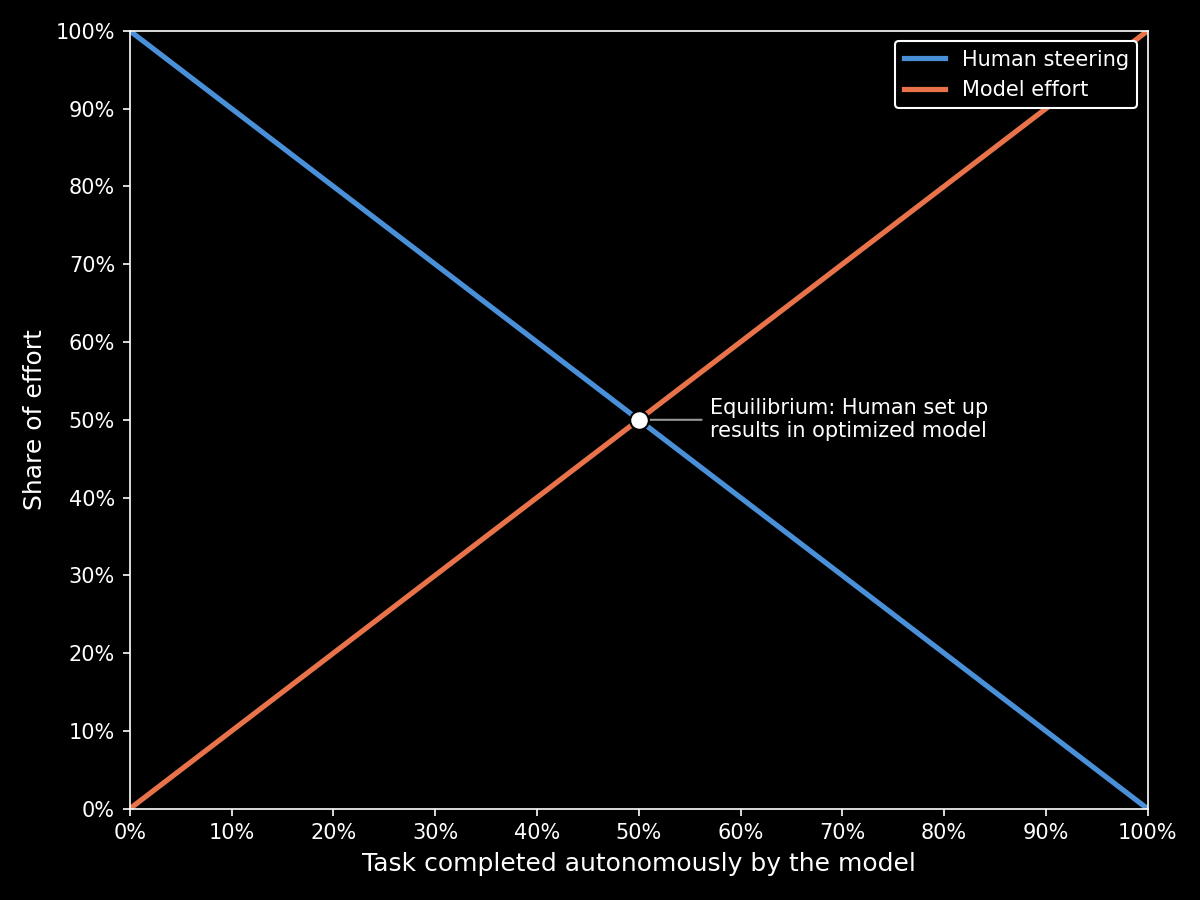
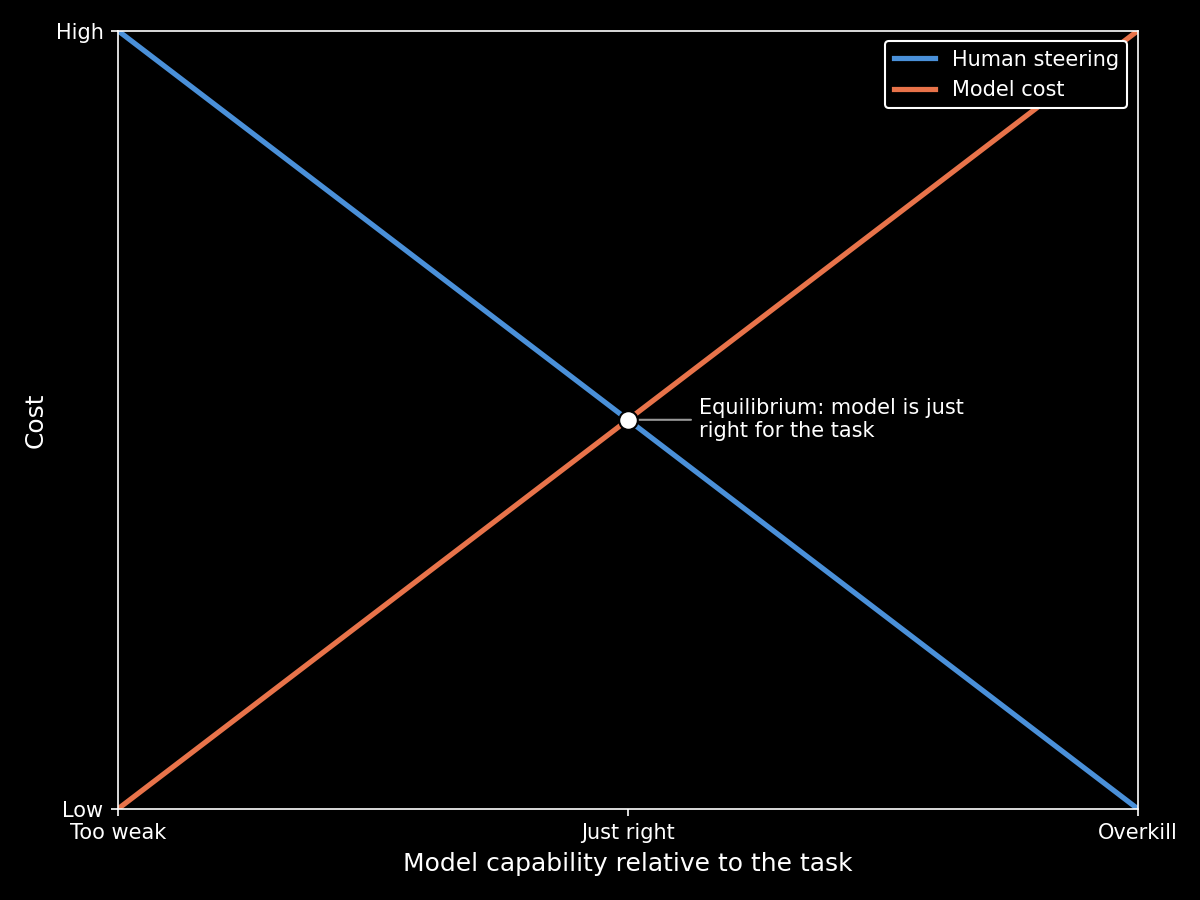
chore: change the graphs and text to fit a bit more nice with the DWL analogy

diff --git a/blog/capabilities/index.html b/blog/capabilities/index.html
@@ -3,7 +3,7 @@
 <head>
     <meta charset="utf-8"/>
     <meta name="viewport" content="width=device-width, initial-scale=1"/>
-    <meta name="source-hash" content="37c1bfde610c80a9"/>
+    <meta name="source-hash" content="6649e93e8abc79ab"/>
     <title>Capabilities</title>
     <script src="/dist/theme.js"></script>
     <script>try { localStorage.setItem('locale', 'en'); } catch (e) {}</script>
@@ -111,12 +111,12 @@
 <p>I&#39;ve observed that there is an inverse relationship between the skill needed [by a human] to accomplish a task and how good a model is. </p>
 <p>Example: if you&#39;re working with a frontier model, it&#39;s generally sufficient to ask for what you want. &quot;Fix this bug&quot;, &quot;Add X feature&quot;, etc. If you&#39;re working with small models (with 30B parameters or lower), they need considerably more hand holding. Prompts need to be longer and specific because otherwise the models get lost in thought and churn their context windows before doing anything useful.</p>
 <p>In other words: when a model is bad/limited at a task, humans supplement its deficiency with their own skills and steering. This is true for any task that frontier models aren&#39;t already good at or when using handicapped models. It&#39;s part of why Open Weight models aren&#39;t as big of a threat as they may seem in cybersecurity. You still need knowledgeable humans (and a ton of compute) to get the most out of them, at least for now.  </p>
-<p>We can map these concepts onto the first graph if we swap the Demand curve with Human steering and the Supply curve with Model effort. The x-axis represents how much of a task a model completes autonomously: at the very left, the human does everything. At the very right, the model can do it end-to-end. The y-axis represents how much effort each side puts in. The height of the human line is the human&#39;s effort, just as the height of the model line is the model&#39;s effort. Both axes are within the 0-100% range, with the x-axis representing performance and the y-axis the share of each party.  </p>
+<p>We can map these concepts onto the first graph if we swap the Demand curve with Human steering and the Supply curve with Model cost. The x-axis represents how capable a model is relative to the task: at the very left, the model is too weak for it. At the very right, it&#39;s overkill. The y-axis represents what you pay. The height of the human line is how much steering the model needs from you, just as the height of the model line is what the model costs. The more capable the model, the less steering it needs and the more it costs.  </p>
 <p>Let&#39;s reintroduce the first graph with these changes.</p>
-<p><img src="/blog/assets/figures/en/human-model-curves.png" alt="Human steering and model effort plotted as a share of effort against how much of a task the model completes autonomously." title="Human Steering and Model Effort"></p>
+<p><img src="/blog/assets/figures/en/human-model-curves.png" alt="Human steering and model cost plotted against how capable the model is relative to the task." title="Human Steering and Model Cost"></p>
 <p>You might think we always want to be on the rightmost side of it. I think that constitutes dead-weight loss for both economic and practical reasons. </p>
 <p>One simple example is using frontier models for trivial changes that a smaller model could&#39;ve made. E.g., changing the copy in a page or running trivial git commands (when was the last time you prompted &#39;yes, push it&#39;?). </p>
-<p><img src="/blog/assets/figures/en/human-model-overreliance.png" alt="Deadweight loss on the right side of the human steering and model effort graph, where a frontier model is used for a trivial task." title="Deadweight Loss From Over-Relying on the Model"></p>
+<p><img src="/blog/assets/figures/en/human-model-overreliance.png" alt="Deadweight loss on the right side of the human steering and model cost graph, where a frontier model is used for a trivial task." title="Deadweight Loss From an Overpowered Model"></p>
 <p>The economic argument is obvious: you&#39;re using frontier tokens for trivial tasks. Ideally, you&#39;d want to save the cost.</p>
 <p>The practical argument is that if token spend wasn&#39;t a concern, it would probably be faster if you used a smaller/faster model. Like if Cursor&#39;s Composer did it rather than have Astra think for a minute straight. </p>
 <p>And even if your very smart model was ultra fast, that is expensive right now, so the economical argument still holds: others <em>could</em> do the same thing just as fast for cheaper, if we had the systems to transfer context efficiently (sort of pass the ball but for models).</p>
@@ -132,14 +132,14 @@
 <p>I expect that while intelligence is subsidized, companies and individuals will use frontier models because it feels like the safe choice and it requires less steering. Budget-conscious organizations will make their own evals and perhaps even RL small models on them (like <a href="https://x.com/RampLabs/status/2052447438795833506">Ramp</a> did). </p>
 <p>But to diffuse AI into the wider economy at its current price, much work needs to be done on simple to use optimizers that small and medium sized organizations can use to save their token spend, both for use by individuals within an organization and for specific tasks. </p>
 <p>Paraphrased: Jev might be very cheap but your average store clerk or non-profit worker isn&#39;t gonna get an API key and make an eval to see if it beats Astra at their classification task. Hence the need for diffusion companies.  </p>
-<p>In the graph, the equilibria makes sense if you think about the 50% human effort as setting up the infrastructure and evals to get the model with the best speed, price, and intelligence for the task (both pre-selecting it or changing it at runtime). Whereas using a frontier model avoids you the work but costs a lot.</p>
-<p><img src="/blog/assets/figures/en/human-model-equilibrium.png" alt="Equilibrium between human steering and model effort, at 50% of the task completed autonomously by the model." title="Equilibrium Between Human Steering and Model Effort"></p>
+<p>In the graph, the equilibria makes sense if you think about it as the model with the best speed, price, and intelligence for the task. Getting there takes human effort: setting up the infrastructure and evals to find that model (both pre-selecting it or changing it at runtime). Whereas using a frontier model avoids you the work but costs a lot.</p>
+<p><img src="/blog/assets/figures/en/human-model-equilibrium.png" alt="Equilibrium between human steering and model cost, where the model is just right for the task." title="Equilibrium Between Human Steering and Model Cost"></p>
 <p>I expect this to change with harnesses that auto-route and simpler infrastructure for evaluating and training task-specific models. It is also nice that this is a defined engineering effort. If we get it right once, everyone benefits.</p>
 <p>What about DWL on the left side of the graph?</p>
 <p>I was recently experimenting with the Qwen family of models, running them locally on my computer with Ollama. It was disappointing. They know a lot and can pull off impressive tricks for a small model, but as soon as you throw a real task at them, they blow their context budgets overthinking unnecessary details.</p>
-<p><img src="/blog/assets/figures/en/human-model-underreliance.png" alt="Deadweight loss on the left side of the human steering and model effort graph, where a small model needs heavy human guidance." title="Deadweight Loss From Under-Relying on the Model"></p>
+<p><img src="/blog/assets/figures/en/human-model-underreliance.png" alt="Deadweight loss on the left side of the human steering and model cost graph, where a small model needs heavy human guidance." title="Deadweight Loss From an Underpowered Model"></p>
 <p>I could only get them to do what I wanted by pointing out the exact lines of code they had to look at. I even had to change some code by hand because even though I&#39;d tell them five times in a row to execute the change, it just thought, and thought, until its context overflowed. </p>
-<p>Another dimension the graph doesn&#39;t capture is time<sup><a id="footnote-ref-5" href="#footnote-5" data-footnote-ref aria-describedby="footnote-label">5</a></sup>. It took me considerably longer to finish my project with Qwen because it needed so much handholding. I knew frontier models would&#39;ve been done in way less time. It also doesn&#39;t capture mental load: it is so much easier to just prompt your way through. You don&#39;t really need to think. </p>
+<p>Another dimension the graph doesn&#39;t capture is time<sup><a id="footnote-ref-5" href="#footnote-5" data-footnote-ref aria-describedby="footnote-label">5</a></sup>. It took me considerably longer to finish my project with Qwen because it needed so much handholding. I knew frontier models would&#39;ve been done in way less time. It also doesn&#39;t capture the qualitative difference in mental load: it is so much easier to just prompt your way through. You don&#39;t really need to think. </p>
 <p>Though, in my case, I chose to work my way through it because I wanted to experiment. In the real world, DWL on the left is visible on tasks that the models aren&#39;t good at <em>yet</em>. The odd finance benchmarks, ML research benchmarks, and computer use tasks. You still need people reviewing and steering the model&#39;s outputs. </p>
 <p>In my opinion, if accuracy can be quantified and the task is economically valuable, they will be conquered eventually, likeliest first at the frontier, shifting to the right. This is true of tasks where labs and startups have an interest to introduce automation. It&#39;s part of the diffusion process. </p>
 <p>Together, both parts of the graph paint a cohesive story: the frontier will lay the groundwork at the toughest challenges in an expensive, inefficient way, while diffusion makes them economically viable and fast.</p>

diff --git a/blog/assets/code/supply-demand-curves.py b/blog/assets/code/supply-demand-curves.py
@@ -1,6 +1,5 @@
 import matplotlib.pyplot as plt
 import numpy as np
-from matplotlib.ticker import PercentFormatter
 from pathlib import Path
 
 MIN_QUANTITY = 1
@@ -19,17 +18,25 @@ EQUILIBRIUM_QUANTITY = 5
 DWL_SHADE = 0.6
 DWL_ALPHA = 0.7
 DWL_FONT_SIZE = 14
+DWL_LABEL = 'DWL'
+DWL_LEFT_COLORMAP = plt.cm.Blues
+DWL_RIGHT_COLORMAP = plt.cm.Oranges
+DWL_LABEL_GAP = 6
+PROMPT_FONT_SIZE = 10
+PROMPT_LINE_HEIGHT = 1.2
 OUTPUT_DIR = Path(__file__).resolve().parent.parent / "figures" / "en"
 
 PERCENT_MAX = 100
-PERCENT_TICK_STEP = 10
 HUMAN_MODEL_EQUILIBRIUM = 50
-HUMAN_MODEL_EQUILIBRIUM_TEXT = 'Equilibrium: Human set up\nresults in optimized model'
+HUMAN_MODEL_EQUILIBRIUM_TEXT = 'Equilibrium: model is just\nright for the task'
+HUMAN_MODEL_X_TICKS = (0, 50, 100)
+HUMAN_MODEL_X_TICK_LABELS = ('Too weak', 'Just right', 'Overkill')
+HUMAN_MODEL_Y_TICKS = (0, 100)
+HUMAN_MODEL_Y_TICK_LABELS = ('Low', 'High')
 HUMAN_MODEL_EQUILIBRIUM_TEXT_X = 57
 OVERRELIANCE_AUTONOMY = 100
 OVERRELIANCE_TEXT = 'yes, push it'
 UNDERRELIANCE_AUTONOMY = 0
-UNDERRELIANCE_FONT_SIZE = 9
 UNDERRELIANCE_TEXT = (
     'Edit lines 100-112.\n'
     'Change the function\n'
@@ -67,21 +74,23 @@ ECONOMICS_SPEC = {
     'ylabel': 'Price',
     'first_label': 'Demand curve',
     'second_label': 'Supply curve',
-    'as_percent': False,
+    'x_tick_labels': None,
+    'y_tick_labels': None,
 }
 
 HUMAN_MODEL_SPEC = {
     'x_range': (0, PERCENT_MAX),
     'y_range': (0, PERCENT_MAX),
-    'x_ticks': range(0, PERCENT_MAX + 1, PERCENT_TICK_STEP),
-    'y_ticks': range(0, PERCENT_MAX + 1, PERCENT_TICK_STEP),
+    'x_ticks': HUMAN_MODEL_X_TICKS,
+    'y_ticks': HUMAN_MODEL_Y_TICKS,
     'first_curve': human_steering_share,
     'second_curve': model_skill_share,
-    'xlabel': 'Task completed autonomously by the model',
-    'ylabel': 'Share of effort',
+    'xlabel': 'Model capability relative to the task',
+    'ylabel': 'Cost',
     'first_label': 'Human steering',
-    'second_label': 'Model effort',
-    'as_percent': True,
+    'second_label': 'Model cost',
+    'x_tick_labels': HUMAN_MODEL_X_TICK_LABELS,
+    'y_tick_labels': HUMAN_MODEL_Y_TICK_LABELS,
 }
 
 # (quantity, label text position, horizontal alignment)
@@ -127,11 +136,8 @@ def draw_curves(ax, bg, fg, spec=ECONOMICS_SPEC):
     ax.set_ylim(*spec['y_range'])
     ax.set_xlabel(spec['xlabel'], fontsize=12, color=fg)
     ax.set_ylabel(spec['ylabel'], fontsize=12, color=fg)
-    ax.set_xticks(spec['x_ticks'])
-    ax.set_yticks(spec['y_ticks'])
-    if spec['as_percent']:
-        ax.xaxis.set_major_formatter(PercentFormatter(xmax=PERCENT_MAX))
-        ax.yaxis.set_major_formatter(PercentFormatter(xmax=PERCENT_MAX))
+    ax.set_xticks(spec['x_ticks'], spec['x_tick_labels'])
+    ax.set_yticks(spec['y_ticks'], spec['y_tick_labels'])
     ax.tick_params(colors=fg)
     for spine in ax.spines.values():
         spine.set_color(fg)
@@ -161,14 +167,37 @@ def draw_example_points(ax, bg, fg):
         draw_labeled_point(ax, bg, fg, point_xy, point_label(quantity), example['text_xy'], example['align'])
 
 
-def draw_shaded_triangle(ax, bg, fg, corners, text, font_size=DWL_FONT_SIZE):
-    triangle = plt.Polygon(corners, closed=True, facecolor=plt.cm.Blues(DWL_SHADE),
-                           edgecolor=bg, linewidth=1, alpha=DWL_ALPHA, zorder=1)
-    ax.add_patch(triangle)
+def dwl_colormap(traded_x, equilibrium_x):
+    return DWL_LEFT_COLORMAP if traded_x < equilibrium_x else DWL_RIGHT_COLORMAP
+
+
+def triangle_center(corners):
     center_x = sum(corner[0] for corner in corners) / len(corners)
     center_y = sum(corner[1] for corner in corners) / len(corners)
-    ax.text(center_x, center_y, text, ha='center', va='center',
-            fontsize=font_size, color=fg, zorder=4)
+    return center_x, center_y
+
+
+def draw_shaded_triangle(ax, bg, corners, colormap):
+    triangle = plt.Polygon(corners, closed=True, facecolor=colormap(DWL_SHADE),
+                           edgecolor=bg, linewidth=1, alpha=DWL_ALPHA, zorder=1)
+    ax.add_patch(triangle)
+
+
+def draw_dwl_label(ax, fg, corners):
+    ax.text(*triangle_center(corners), DWL_LABEL, ha='center', va='center',
+            fontsize=DWL_FONT_SIZE, color=fg, zorder=4)
+
+
+def draw_dwl_label_with_prompt(ax, fg, corners, prompt):
+    center = triangle_center(corners)
+    prompt_line_count = prompt.count('\n') + 1
+    half_prompt_height = prompt_line_count * PROMPT_FONT_SIZE * PROMPT_LINE_HEIGHT / 2
+    ax.text(*center, prompt, ha='center', va='center',
+            fontsize=PROMPT_FONT_SIZE, color=fg, zorder=4)
+    # Offset in points so the DWL label sits just above the prompt regardless of its line count
+    ax.annotate(DWL_LABEL, xy=center, xytext=(0, half_prompt_height + DWL_LABEL_GAP),
+                textcoords='offset points', ha='center', va='bottom',
+                fontsize=DWL_FONT_SIZE, color=fg, zorder=4)
 
 
 def draw_human_model_underreliance_triangle(ax, bg, fg):
@@ -176,7 +205,8 @@ def draw_human_model_underreliance_triangle(ax, bg, fg):
     human_corner = (UNDERRELIANCE_AUTONOMY, human_steering_share(UNDERRELIANCE_AUTONOMY))
     model_corner = (UNDERRELIANCE_AUTONOMY, model_skill_share(UNDERRELIANCE_AUTONOMY))
     corners = [equilibrium_corner, human_corner, model_corner]
-    draw_shaded_triangle(ax, bg, fg, corners, UNDERRELIANCE_TEXT, UNDERRELIANCE_FONT_SIZE)
+    draw_shaded_triangle(ax, bg, corners, dwl_colormap(UNDERRELIANCE_AUTONOMY, HUMAN_MODEL_EQUILIBRIUM))
+    draw_dwl_label_with_prompt(ax, fg, corners, UNDERRELIANCE_TEXT)
 
 
 def draw_human_model_equilibrium_point(ax, bg, fg):
@@ -189,7 +219,9 @@ def draw_human_model_overreliance_triangle(ax, bg, fg):
     equilibrium_corner = (HUMAN_MODEL_EQUILIBRIUM, human_steering_share(HUMAN_MODEL_EQUILIBRIUM))
     human_corner = (OVERRELIANCE_AUTONOMY, human_steering_share(OVERRELIANCE_AUTONOMY))
     model_corner = (OVERRELIANCE_AUTONOMY, model_skill_share(OVERRELIANCE_AUTONOMY))
-    draw_shaded_triangle(ax, bg, fg, [equilibrium_corner, human_corner, model_corner], OVERRELIANCE_TEXT)
+    corners = [equilibrium_corner, human_corner, model_corner]
+    draw_shaded_triangle(ax, bg, corners, dwl_colormap(OVERRELIANCE_AUTONOMY, HUMAN_MODEL_EQUILIBRIUM))
+    draw_dwl_label_with_prompt(ax, fg, corners, OVERRELIANCE_TEXT)
 
 
 def draw_deadweight_loss_triangle(ax, bg, fg, scenario):
@@ -199,7 +231,8 @@ def draw_deadweight_loss_triangle(ax, bg, fg, scenario):
     traded_supply_corner = (traded_quantity, price_on_supply_curve(traded_quantity))
     corners = [equilibrium_corner, traded_demand_corner, traded_supply_corner]
 
-    draw_shaded_triangle(ax, bg, fg, corners, 'DWL')
+    draw_shaded_triangle(ax, bg, corners, dwl_colormap(traded_quantity, EQUILIBRIUM_QUANTITY))
+    draw_dwl_label(ax, fg, corners)
 
     traded_price = traded_demand_corner[1]
     equilibrium_net = equilibrium_corner[0] * equilibrium_corner[1]

diff --git a/blog/posts/capabilities.md b/blog/posts/capabilities.md
@@ -52,17 +52,17 @@ Example: if you're working with a frontier model, it's generally sufficient to a
 
 In other words: when a model is bad/limited at a task, humans supplement its deficiency with their own skills and steering. This is true for any task that frontier models aren't already good at or when using handicapped models. It's part of why Open Weight models aren't as big of a threat as they may seem in cybersecurity. You still need knowledgeable humans (and a ton of compute) to get the most out of them, at least for now.  
 
-We can map these concepts onto the first graph if we swap the Demand curve with Human steering and the Supply curve with Model effort. The x-axis represents how much of a task a model completes autonomously: at the very left, the human does everything. At the very right, the model can do it end-to-end. The y-axis represents how much effort each side puts in. The height of the human line is the human's effort, just as the height of the model line is the model's effort. Both axes are within the 0-100% range, with the x-axis representing performance and the y-axis the share of each party.  
+We can map these concepts onto the first graph if we swap the Demand curve with Human steering and the Supply curve with Model cost. The x-axis represents how capable a model is relative to the task: at the very left, the model is too weak for it. At the very right, it's overkill. The y-axis represents what you pay. The height of the human line is how much steering the model needs from you, just as the height of the model line is what the model costs. The more capable the model, the less steering it needs and the more it costs.  
 
 Let's reintroduce the first graph with these changes.
 
-![Human steering and model effort plotted as a share of effort against how much of a task the model completes autonomously.](/blog/assets/figures/en/human-model-curves.png "Human Steering and Model Effort")
+![Human steering and model cost plotted against how capable the model is relative to the task.](/blog/assets/figures/en/human-model-curves.png "Human Steering and Model Cost")
 
 You might think we always want to be on the rightmost side of it. I think that constitutes dead-weight loss for both economic and practical reasons. 
 
 One simple example is using frontier models for trivial changes that a smaller model could've made. E.g., changing the copy in a page or running trivial git commands (when was the last time you prompted 'yes, push it'?). 
 
-![Deadweight loss on the right side of the human steering and model effort graph, where a frontier model is used for a trivial task.](/blog/assets/figures/en/human-model-overreliance.png "Deadweight Loss From Over-Relying on the Model")
+![Deadweight loss on the right side of the human steering and model cost graph, where a frontier model is used for a trivial task.](/blog/assets/figures/en/human-model-overreliance.png "Deadweight Loss From an Overpowered Model")
 
 The economic argument is obvious: you're using frontier tokens for trivial tasks. Ideally, you'd want to save the cost.
 
@@ -87,9 +87,9 @@ But to diffuse AI into the wider economy at its current price, much work needs t
 
 Paraphrased: Jev might be very cheap but your average store clerk or non-profit worker isn't gonna get an API key and make an eval to see if it beats Astra at their classification task. Hence the need for diffusion companies.  
 
-In the graph, the equilibria makes sense if you think about the 50% human effort as setting up the infrastructure and evals to get the model with the best speed, price, and intelligence for the task (both pre-selecting it or changing it at runtime). Whereas using a frontier model avoids you the work but costs a lot.
+In the graph, the equilibria makes sense if you think about it as the model with the best speed, price, and intelligence for the task. Getting there takes human effort: setting up the infrastructure and evals to find that model (both pre-selecting it or changing it at runtime). Whereas using a frontier model avoids you the work but costs a lot.
 
-![Equilibrium between human steering and model effort, at 50% of the task completed autonomously by the model.](/blog/assets/figures/en/human-model-equilibrium.png "Equilibrium Between Human Steering and Model Effort")
+![Equilibrium between human steering and model cost, where the model is just right for the task.](/blog/assets/figures/en/human-model-equilibrium.png "Equilibrium Between Human Steering and Model Cost")
 
 I expect this to change with harnesses that auto-route and simpler infrastructure for evaluating and training task-specific models. It is also nice that this is a defined engineering effort. If we get it right once, everyone benefits.
 
@@ -97,11 +97,11 @@ What about DWL on the left side of the graph?
 
 I was recently experimenting with the Qwen family of models, running them locally on my computer with Ollama. It was disappointing. They know a lot and can pull off impressive tricks for a small model, but as soon as you throw a real task at them, they blow their context budgets overthinking unnecessary details.
 
-![Deadweight loss on the left side of the human steering and model effort graph, where a small model needs heavy human guidance.](/blog/assets/figures/en/human-model-underreliance.png "Deadweight Loss From Under-Relying on the Model")
+![Deadweight loss on the left side of the human steering and model cost graph, where a small model needs heavy human guidance.](/blog/assets/figures/en/human-model-underreliance.png "Deadweight Loss From an Underpowered Model")
 
 I could only get them to do what I wanted by pointing out the exact lines of code they had to look at. I even had to change some code by hand because even though I'd tell them five times in a row to execute the change, it just thought, and thought, until its context overflowed. 
 
-Another dimension the graph doesn't capture is time[^5]. It took me considerably longer to finish my project with Qwen because it needed so much handholding. I knew frontier models would've been done in way less time. It also doesn't capture mental load: it is so much easier to just prompt your way through. You don't really need to think. 
+Another dimension the graph doesn't capture is time[^5]. It took me considerably longer to finish my project with Qwen because it needed so much handholding. I knew frontier models would've been done in way less time. It also doesn't capture the qualitative difference in mental load: it is so much easier to just prompt your way through. You don't really need to think. 
 
 Though, in my case, I chose to work my way through it because I wanted to experiment. In the real world, DWL on the left is visible on tasks that the models aren't good at *yet*. The odd finance benchmarks, ML research benchmarks, and computer use tasks. You still need people reviewing and steering the model's outputs. 
 
